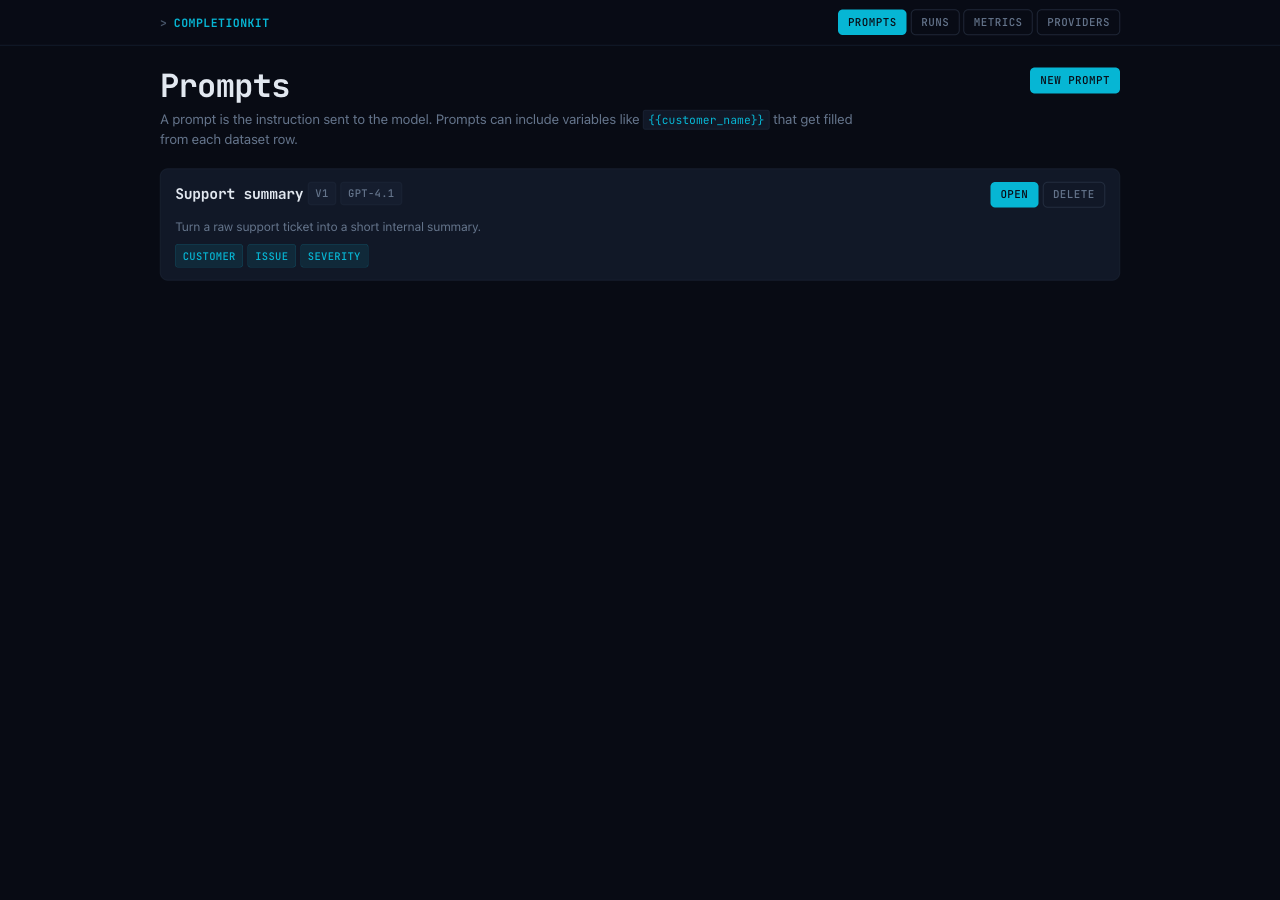
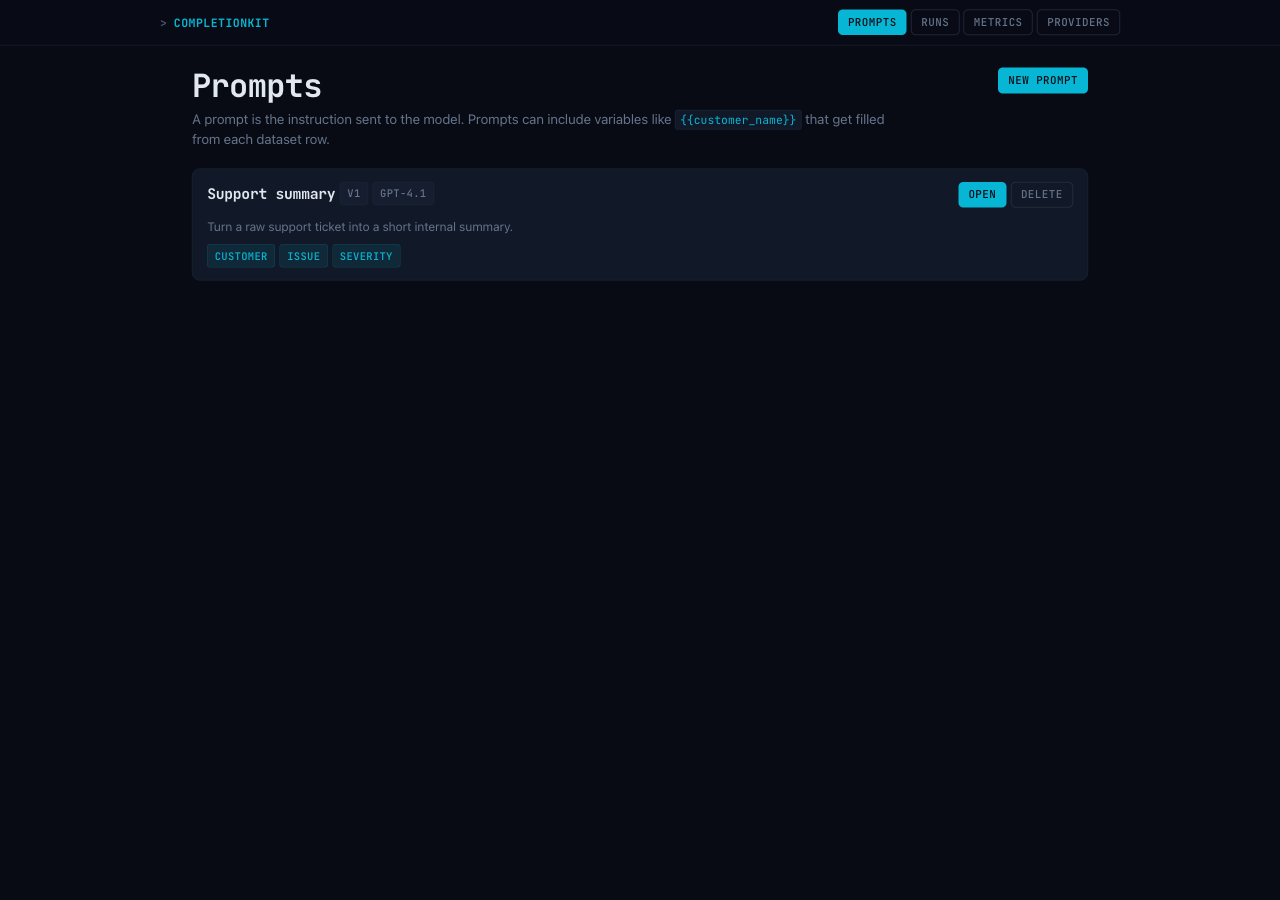
fix: responsive padding with clamp, remove static width override

diff --git a/app/assets/stylesheets/completion_kit/application.css b/app/assets/stylesheets/completion_kit/application.css
@@ -86,8 +86,11 @@ form.button_to {
 }
 
 .ck-wrap {
-  width: min(1200px, calc(100vw - 2.5rem));
+  width: 100%;
+  max-width: 1200px;
   margin: 0 auto;
+  padding-left: clamp(1rem, 4vw, 2.5rem);
+  padding-right: clamp(1rem, 4vw, 2.5rem);
 }
 
 .ck-topbar {
@@ -694,10 +697,6 @@ select.ck-input {
 
   .ck-rubric-row {
     grid-template-columns: 1fr;
-  }
-
-  .ck-wrap {
-    width: min(100vw - 1.25rem, 1200px);
   }
 }
 
